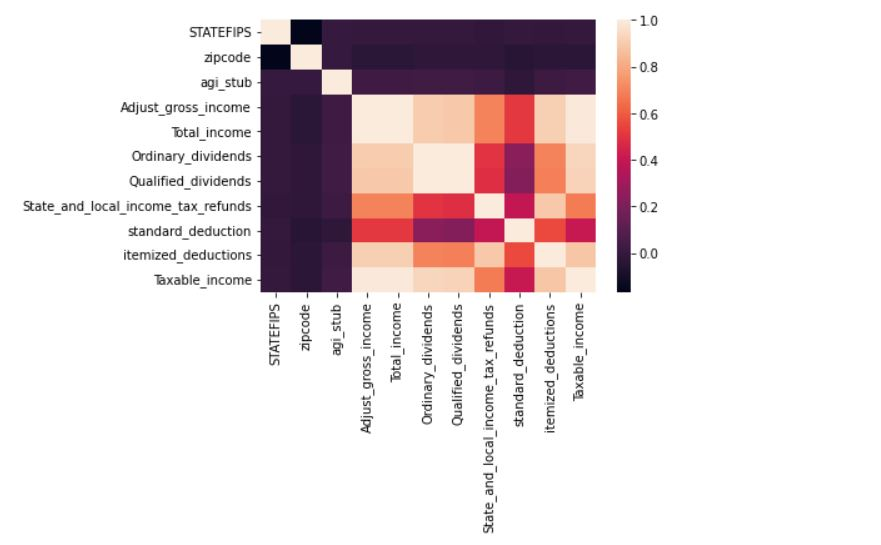
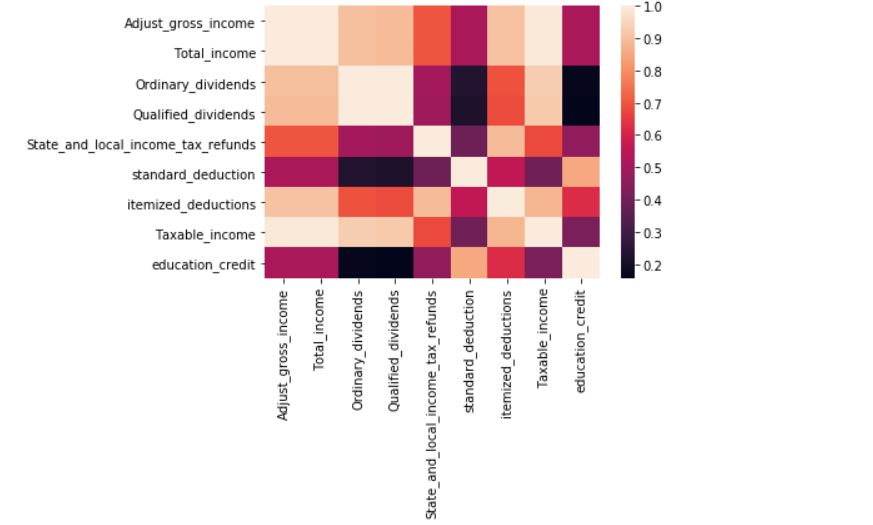
add education correlation

Changed region(s): [[0.0309, 0.0, 0.7732, 1.0]]

diff --git a/index.html b/index.html
@@ -100,7 +100,7 @@ The size of Individual income tax return data at the state and ZIP code level co
 
 <p>
 California is the largest in America. In 2019, California had 70133090 people and a total income of 300 million. The mean of the people in each state is 477495821 and the mean of the total income is 45741752. 
-For more detail about the descriptive statistics, you can click <a href="https://github.com/ylchan2/AIT580Project1/blob/main/analysis/finalpjjjj.ipynb">here</a>
+For more detail about the descriptive statistics, you can click <a href="https://github.com/ylchan2/AIT580Project1/blob/main/analysis/AIT580final.ipynb">here</a>
 </p>
 
 <p>
@@ -118,8 +118,8 @@ DC the capital has the highest income per person at United States. Californa com
 
 <p>2. Calculate and visualize the correlation between different data in ISR data</p>
 <p><img src="assets/correlation.jpg"></p>
-<p> Total income adjust, and adjust gross income has strong correlation which is higher than 0.8. Total income, dividends and deductions have not much correlation which is around 0.5. 
-The interesting thing is dividends and deduction has the lowest correlation of all the data tested. Our team initially thought dividends and deduction can be correlated.
+<p> Total income adjust, and adjust gross income has strong correlation which is higher than 0.8.
+The interesting thing are standard deduction and education credit to total income has the lowest correlation of all the data tested. Our team initially thought dividends and education credit can be correlated with total income.
 </p>
 
 </div>
